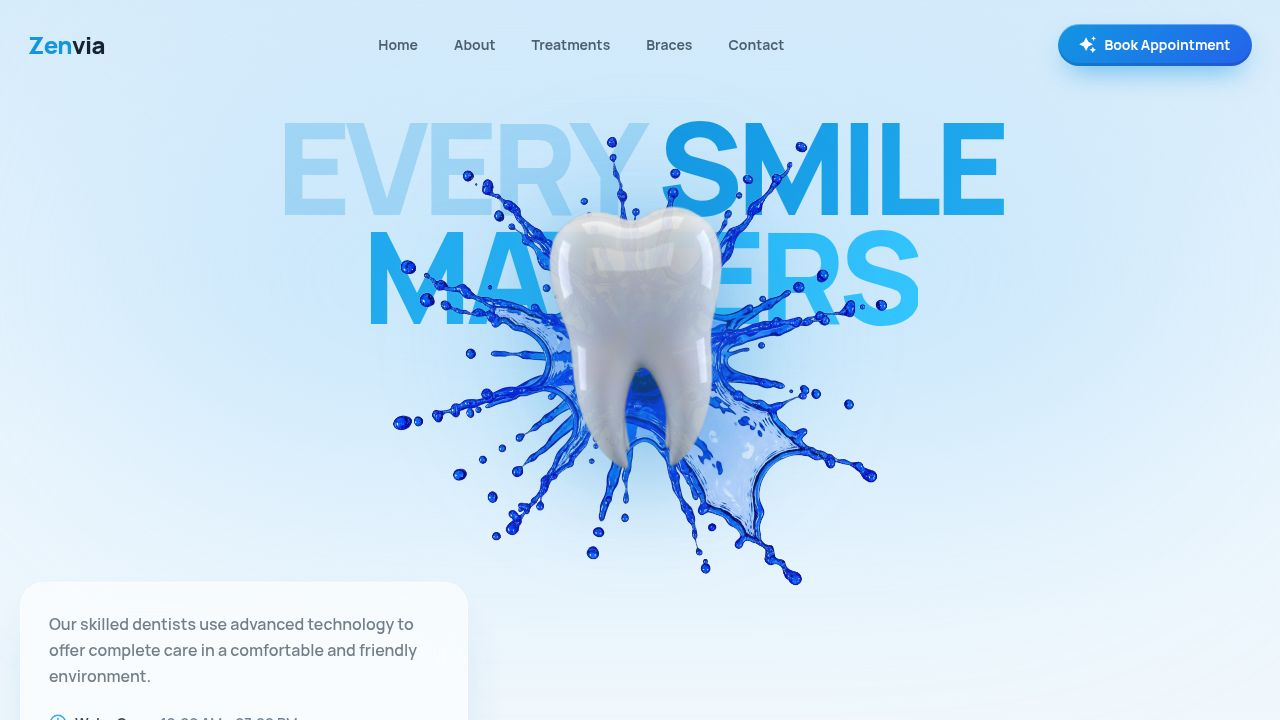
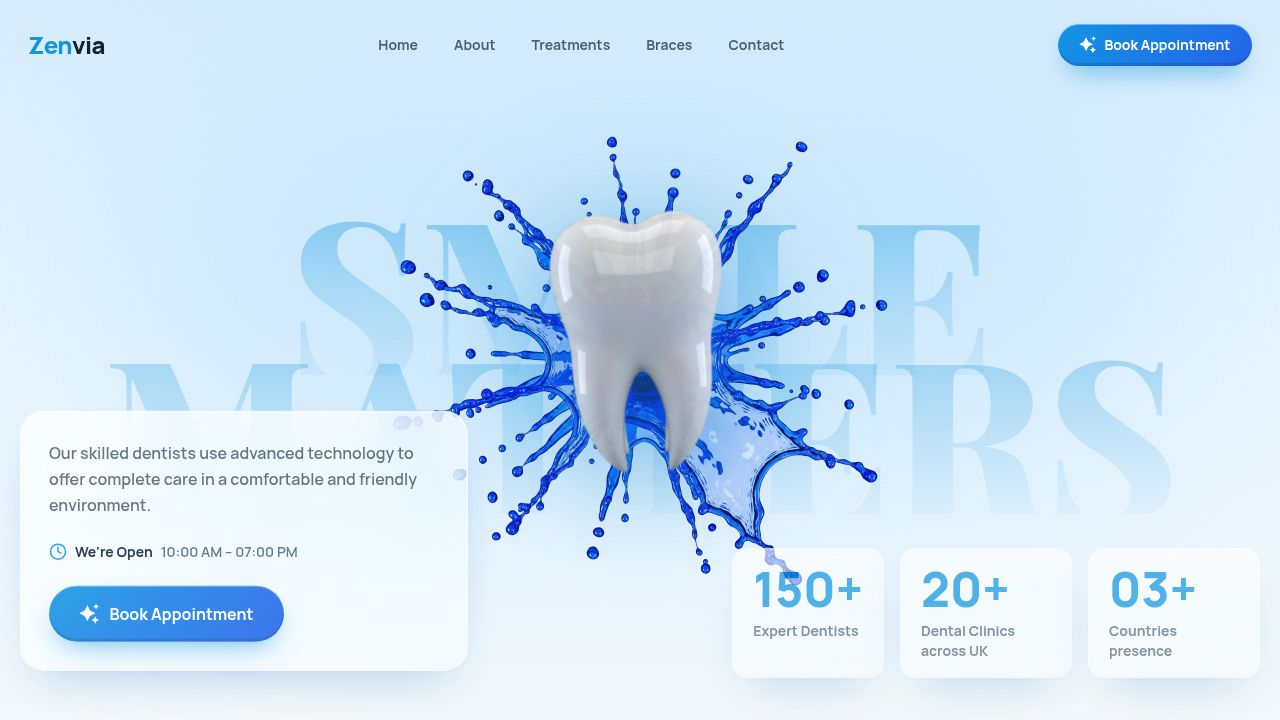
Refine hero section layering and mobile responsiveness
Adjust Z-index for hero section elements to fix layering issues on mobile, improve responsiveness, and add Vercel deployment configuration.

Replit-Commit-Author: Agent
Replit-Commit-Session-Id: ac6f6676-cc16-4ec4-b7c1-9350181c9204
Replit-Commit-Checkpoint-Type: full_checkpoint
Replit-Commit-Event-Id: 493e5aa7-5f58-49a1-8f4f-687566792145
Replit-Commit-Screenshot-Url: https://storage.googleapis.com/screenshot-production-us-central1/86a2bf37-5412-44c3-93f8-4e16c6da0a8c/ac6f6676-cc16-4ec4-b7c1-9350181c9204/Fk46FbZ
Replit-Helium-Checkpoint-Created: true

diff --git a/artifacts/dental-clinic/src/pages/Home.tsx b/artifacts/dental-clinic/src/pages/Home.tsx
@@ -160,8 +160,8 @@ export default function Home() {
 
       {/* Fixed tooth + splash unit (all devices) — splash pops up, tooth drops from top, travels + rotates */}
       <div
-        className="fixed inset-0 z-30 pointer-events-none flex justify-center items-start pt-[11vh] md:items-center md:pt-0"
-        style={{ perspective: 1000 }}
+        className="fixed inset-0 pointer-events-none flex justify-center items-start pt-[9vh] md:items-center md:pt-0"
+        style={{ perspective: 1000, zIndex: 10 }}
       >
         <div className="relative w-[74vw] max-w-[330px] sm:max-w-[400px] md:max-w-[460px] lg:max-w-[520px] aspect-square">
           {/* Splash — Framer pops it up from behind on load; GSAP fades it on scroll (separate nodes, no transform conflict) */}
@@ -209,18 +209,22 @@ export default function Home() {
         </div>
       </div>
 
-      {/* ===== HERO ===== */}
-      <section id="home" className="relative min-h-screen flex flex-col overflow-hidden pt-28 pb-14">
-        {/* Background */}
+      {/* Hero backdrop (BELOW the tooth): gradient, glow blob, and giant serif typography.
+          This is a sibling layer UNDER the fixed tooth so the tooth renders in front of the
+          serif/background but still behind the hero card (which lives in the section above).
+          The card cannot beat the tooth via z-index alone because the section forms its own
+          stacking context, so we split the hero across three sibling layers instead. */}
+      <div
+        className="absolute top-0 inset-x-0 h-screen overflow-hidden pointer-events-none"
+        style={{ zIndex: 1 }}
+      >
         <div className="absolute inset-0 bg-gradient-to-b from-[#d7ecfb] via-[#eaf5fd] to-background" />
         <div className="absolute top-20 left-1/2 -translate-x-1/2 w-[85vw] h-[55vh] bg-[#bfe3fb] rounded-full blur-[130px] opacity-70" />
-
-        {/* Giant serif background typography behind the tooth (reference-style) */}
         <motion.h1
           initial={{ opacity: 0, y: 30 }}
           animate={loading ? {} : { opacity: 1, y: 0 }}
           transition={{ duration: 1, ease: [0.22, 1, 0.36, 1], delay: 0.1 }}
-          className="pointer-events-none absolute inset-x-0 top-[10vh] md:top-1/2 md:-translate-y-1/2 z-0 flex flex-col items-center text-center leading-[0.76] select-none"
+          className="absolute inset-x-0 top-[10vh] md:top-1/2 md:-translate-y-1/2 flex flex-col items-center text-center leading-[0.76] select-none"
         >
           <span className="font-serif-display uppercase text-[27vw] md:text-[20vw] lg:text-[17.5vw] tracking-tight text-transparent bg-clip-text bg-gradient-to-b from-primary/40 via-primary/20 to-primary/[0.06]">
             Smile
@@ -229,10 +233,17 @@ export default function Home() {
             Matters
           </span>
         </motion.h1>
+      </div>
 
-        <div className="container mx-auto px-5 relative z-10 flex-1 flex flex-col justify-end">
+      {/* ===== HERO ===== (transparent, ABOVE the tooth so card/stats stay readable over it) */}
+      <section
+        id="home"
+        className="relative min-h-screen flex flex-col overflow-hidden pt-28 pb-14"
+        style={{ zIndex: 20 }}
+      >
+        <div className="container mx-auto px-5 relative flex-1 flex flex-col justify-end">
           {/* Info card + stats (above the tooth) */}
-          <div className="grid lg:grid-cols-2 gap-8 items-end mt-auto relative z-40">
+          <div className="grid lg:grid-cols-2 gap-8 items-end mt-auto relative">
             <motion.div
               initial={{ opacity: 0, y: 40 }}
               animate={loading ? {} : { opacity: 1, y: 0 }}
@@ -257,12 +268,12 @@ export default function Home() {
               initial={{ opacity: 0, y: 40 }}
               animate={loading ? {} : { opacity: 1, y: 0 }}
               transition={{ duration: 0.8, delay: 0.55 }}
-              className="flex flex-wrap gap-8 lg:justify-end"
+              className="flex flex-wrap gap-3 sm:gap-4 lg:justify-end"
             >
               {stats.map((s) => (
-                <div key={s.label} className="min-w-[110px]">
-                  <p className="text-4xl lg:text-5xl font-extrabold text-primary leading-none">{s.value}</p>
-                  <p className="mt-2 text-sm font-bold text-muted-foreground max-w-[130px]">{s.label}</p>
+                <div key={s.label} className="glass-card rounded-2xl px-4 py-3.5 sm:px-5 sm:py-4 min-w-[104px] flex-1 sm:flex-none">
+                  <p className="text-3xl sm:text-4xl lg:text-5xl font-extrabold text-primary leading-none">{s.value}</p>
+                  <p className="mt-2 text-xs sm:text-sm font-bold text-muted-foreground max-w-[130px]">{s.label}</p>
                 </div>
               ))}
             </motion.div>

diff --git a/artifacts/dental-clinic/vite.config.ts b/artifacts/dental-clinic/vite.config.ts
@@ -4,27 +4,17 @@ import tailwindcss from "@tailwindcss/vite";
 import path from "path";
 import runtimeErrorOverlay from "@replit/vite-plugin-runtime-error-modal";
 
+// PORT / BASE_PATH are provided by the Replit workflow for local dev & preview.
+// On other build hosts (e.g. Vercel static builds) they are absent, so fall back
+// to sensible defaults: a dev port and a root base path.
 const rawPort = process.env.PORT;
-
-if (!rawPort) {
-  throw new Error(
-    "PORT environment variable is required but was not provided.",
-  );
-}
-
-const port = Number(rawPort);
+const port = rawPort ? Number(rawPort) : 5173;
 
 if (Number.isNaN(port) || port <= 0) {
   throw new Error(`Invalid PORT value: "${rawPort}"`);
 }
 
-const basePath = process.env.BASE_PATH;
-
-if (!basePath) {
-  throw new Error(
-    "BASE_PATH environment variable is required but was not provided.",
-  );
-}
+const basePath = process.env.BASE_PATH ?? "/";
 
 export default defineConfig({
   base: basePath,

diff --git a/artifacts/dental-clinic/src/components/Navbar.tsx b/artifacts/dental-clinic/src/components/Navbar.tsx
@@ -32,9 +32,7 @@ export function Navbar() {
         <div className="container mx-auto px-5">
           <div
             className={`flex items-center justify-between rounded-full transition-all duration-500 ${
-              scrolled
-                ? 'bg-white/85 backdrop-blur-xl px-6 py-2.5 shadow-soft border border-white'
-                : 'px-2 py-1'
+              scrolled ? 'glass-card px-4 sm:px-6 py-2.5' : 'px-2 py-1'
             }`}
           >
             <a href="#home" className="flex items-center text-2xl tracking-tight">
@@ -55,12 +53,14 @@ export function Navbar() {
               ))}
             </nav>
 
-            <SparkleButton href="#contact" size="sm" className="hidden lg:inline-flex">
-              Book Appointment
-            </SparkleButton>
+            <div className="hidden lg:block">
+              <SparkleButton href="#contact" size="sm">
+                Book Appointment
+              </SparkleButton>
+            </div>
 
             <button
-              className="lg:hidden text-foreground bg-white/80 p-2.5 rounded-full border border-white shadow-soft"
+              className="lg:hidden text-foreground glass-card p-2.5 rounded-full"
               onClick={() => setOpen(true)}
               aria-label="Open menu"
             >

diff --git a/artifacts/dental-clinic/src/index.css b/artifacts/dental-clinic/src/index.css
@@ -119,9 +119,12 @@
    glass nearly opaque there to keep copy readable; stays translucent on desktop. */
 @media (max-width: 767px) {
   .hero-info-card {
-    background:
-      linear-gradient(180deg, rgba(255, 255, 255, 0.72) 0%, rgba(255, 255, 255, 0.4) 42%),
-      linear-gradient(155deg, rgba(255, 255, 255, 0.97) 0%, rgba(255, 255, 255, 0.9) 100%);
+    /* Fully opaque on mobile: the fixed tooth/splash can overlap the card on
+       short viewports, so a solid fill (with the glass border/shadow kept for the
+       premium frame) guarantees no bleed-through behind the copy. */
+    background: linear-gradient(155deg, #ffffff 0%, #f2f9ff 100%);
+    backdrop-filter: none;
+    -webkit-backdrop-filter: none;
   }
 }
 

diff --git a/.agents/memory/hero-stacking-and-mobile.md b/.agents/memory/hero-stacking-and-mobile.md
@@ -1,0 +1,46 @@
+---
+name: Zenvia hero stacking + mobile overlap
+description: Why the hero tooth/card layering is split into three sibling layers, and the HMR-restart gotcha that masked the fix.
+---
+
+# Hero stacking: fixed tooth vs. hero card
+
+**Rule:** In the Zenvia hero, the traveling tooth+splash, the hero backdrop
+(gradient + glow blob + giant "Smile Matters" serif), and the hero content
+(info card + stats) must be THREE SEPARATE SIBLING layers directly under the
+page root (`mainRef`), ordered by explicit z-index:
+`backdrop z=1  <  fixed tooth z=10  <  hero <section> z=20  <  navbar z=50`.
+
+**Why:** The hero `<section>` forms its own stacking context. When the info card
+was nested inside that section, NO z-index on the card or its container could
+raise it above the sibling `position: fixed` tooth — even an inline `zIndex:9999`
+on the container failed while trapped in the section. On short/narrow viewports
+(e.g. 320x720) the tooth+splash then painted OVER the card and made copy
+unreadable. The card can only beat the tooth when it lives in a sibling layer of
+the tooth with a higher z-index, not nested under a stacking-context parent.
+
+**How to apply:** Any future hero edit must keep this sibling z-ladder. Put
+anything that should sit BEHIND the tooth (backgrounds, decorative serif) in the
+low backdrop layer; keep the tooth `fixed z=10` (it must stay above all later,
+default/auto-z content sections as it travels down the page); keep readable
+content in the transparent `z=20` section (only opaque descendants like the
+mobile-opaque `.hero-info-card` and glass stat cards occlude the tooth, which is
+intended). Do NOT re-nest the hero card under a new stacking context.
+
+**Related:** the mobile `.hero-info-card` is made fully opaque (solid white,
+`backdrop-filter: none`) under 767px so the tooth directly behind it never bleeds
+through the copy.
+
+# Vite HMR does not reliably apply structural JSX changes here
+
+**Symptom:** After moving JSX nodes / changing layer structure in `Home.tsx`,
+screenshots kept showing the OLD layout — several verification passes were wasted
+chasing a "bug" that was already fixed in source.
+
+**Why:** HMR patched styles but not the restructured tree; the running app was
+stale.
+
+**How to apply:** After any structural change to `Home.tsx` (moving/reparenting
+nodes, changing the layer/stacking structure), RESTART the workflow
+(`artifacts/dental-clinic: web`) before screenshotting to verify. Do not trust a
+screenshot that looks identical to the pre-edit state — restart first.

diff --git a/replit.md b/replit.md
@@ -8,6 +8,7 @@ A premium, fully-animated single-page marketing website for the "Zenvia" dental 
 - `pnpm --filter @workspace/dental-clinic run typecheck` — typecheck the site (use this, NOT `build`)
 - `pnpm run typecheck` — full typecheck across all packages
 - `pnpm run build` — typecheck + build all packages (needs workflow-provided PORT/BASE_PATH)
+- Vercel deploy: root `vercel.json` builds the site (`pnpm --filter @workspace/dental-clinic run build`, output `artifacts/dental-clinic/dist/public`, SPA rewrite). `vite.config.ts` is env-tolerant (port defaults 5173, `BASE_PATH` defaults `/`) so `vite build` works without the workflow env. Keep `BASE_PATH=/` for Vercel (root hosting).
 
 ## Stack
 
@@ -27,8 +28,9 @@ A premium, fully-animated single-page marketing website for the "Zenvia" dental 
 ## Architecture decisions
 
 - No Three.js / WebGL. The hero centerpiece is a pre-rendered transparent glossy tooth PNG composited inside a transparent splash PNG, animated with GSAP + Framer Motion (simpler, lighter, no react-three version pitfalls).
-- Hero tooth + splash are one perfectly-aligned unit: a fixed, viewport-centered container (shown on ALL devices) holds the splash behind and the tooth in front. On load the splash POPS up from behind (Framer spring) and the tooth DROPS in from the top (Framer, gated on `!loading`), settling with a slight rest tilt. On scroll the splash fades out (it belongs to the hero) while the tooth travels DOWN the viewport (monotonically increasing `y`) with horizontal sway and rotates (0→270deg), driven by a scrubbed GSAP timeline. Same animation on mobile via a `gsap.matchMedia` `{isDesktop,isMobile}` branch that tunes `kx`/base scale/travel opacity; the fixed layer is `pointer-events-none` and hero card/stats sit at `z-40` so copy stays readable/clickable. See `.agents/memory/persistent-scroll-tooth.md`.
+- Hero tooth + splash are one perfectly-aligned unit: a fixed, viewport-centered container (shown on ALL devices) holds the splash behind and the tooth in front. On load the splash POPS up from behind (Framer spring) and the tooth DROPS in from the top (Framer, gated on `!loading`), settling with a slight rest tilt. On scroll the splash fades out (it belongs to the hero) while the tooth travels DOWN the viewport (monotonically increasing `y`) with horizontal sway and rotates (0→270deg), driven by a scrubbed GSAP timeline. Same animation on mobile via a `gsap.matchMedia` `{isDesktop,isMobile}` branch that tunes `kx`/base scale/travel opacity; the fixed tooth layer is `pointer-events-none` and sits at `zIndex:10`, below the `zIndex:20` hero section (card/stats), so copy stays readable/clickable (see the z-layering note below). See `.agents/memory/persistent-scroll-tooth.md`.
 - GSAP scroll transforms and Framer intro/tilt/idle motion live on separate nested nodes to avoid fighting over the CSS `transform` property (GSAP on `toothOuter`, Framer drop/tilt on inner `motion.div`s). Same rule for cards: the hover LIFT is Framer `whileHover={{ y: -6 }}` while `.glass-hover` animates only the shadow/glow — one transform author per node. The splash pop (Framer wrapper) is split from its scroll-fade (GSAP on the inner `img`) so opacity/transform never conflict; the splash fades out/in smoothly on scroll.
+- Hero z-layering is THREE sibling layers under the page root (NOT nested): a `zIndex:1` backdrop (gradient + glow blob + giant "Smile Matters" serif) BELOW the `zIndex:10` fixed tooth, and the transparent `zIndex:20` hero `<section>` (info card + stats) ABOVE it (navbar stays `z-50`). Reason: the hero `<section>` is its own stacking context, so a card nested inside it can NEVER be raised above the sibling fixed tooth by any z-index — on short/narrow mobile the tooth painted over the card. See `.agents/memory/hero-stacking-and-mobile.md`.
 - The scroll tooth ends its journey rotated to 360deg (fully upright, x:0) at the footer, so it visually returns to its original starting orientation.
 - Glassmorphism reads poorly on pure white, so card-hosting sections use the light-blue `bg-background` (not `bg-white`); the glass sheen is folded into the `background` shorthand (no `::before`) so it never overrides `position:absolute` on children.
 - Lenis smooth scroll driven by the GSAP ticker; manual `scrollRestoration` + `scrollTo(0,0)` guarantees the page loads at hero top.
@@ -51,6 +53,8 @@ A premium, fully-animated one-page site for the fictional "Zenvia" clinic. Hero:
 
 - Transparent PNGs (tooth, splash) must have a real alpha channel. Generate renders on FLAT WHITE (no gradient/bokeh/floor shadow) then remove the background; dark/bokeh backgrounds can't be keyed and leave a visible box. Verify with `identify -format '%[channels] %[pixel:p{2,2}]' file.png` (want `srgba` + `srgba(0,0,0,0)`). The image viewer renders transparent on white, so it can't confirm transparency — use `identify` or a screenshot over a colored page.
 - The Preloader overlays the page for ~0.5s on load, so screenshots taken immediately after a restart catch it mid-animation. To verify the hero, temporarily set `useState(false)` for `loading` in `Home.tsx`, screenshot, then restore `useState(true)`.
+- Vite HMR does NOT reliably apply STRUCTURAL JSX changes in `Home.tsx` (moving/reparenting nodes, layer/stacking changes) — the running app stays stale and screenshots look unchanged. Always RESTART the workflow (`artifacts/dental-clinic: web`) before screenshotting to verify a structural edit.
+- `.sparkle-btn` sets `display:inline-flex`, which overrides Tailwind's `hidden` (`display:none`) due to CSS source order. To hide a SparkleButton responsively, toggle visibility on a WRAPPER (e.g. `<div className="hidden lg:block">`), NOT via `hidden lg:inline-flex` on the button itself.
 - No emojis anywhere in this site (explicit user preference).
 - Keep the Footer "Developed by BranX" glow credit.
 - Verify with `pnpm --filter @workspace/dental-clinic run typecheck`, not `build` (build needs workflow-provided PORT/BASE_PATH).

diff --git a/.agents/memory/MEMORY.md b/.agents/memory/MEMORY.md
@@ -1,1 +1,1 @@
-- [Zenvia glass & hero serif](glass-and-hero-typography.md) — glass sheen folded into `background` (no `::before`), glass needs a tinted bg not white, one transform-author per node (Framer lift vs CSS glow).
+- [Zenvia hero stacking + mobile overlap](hero-stacking-and-mobile.md) — hero = 3 sibling z-layers (backdrop<tooth<section); nesting the card in the section traps it under the fixed tooth. Also: restart workflow after structural JSX edits (HMR won't apply them).